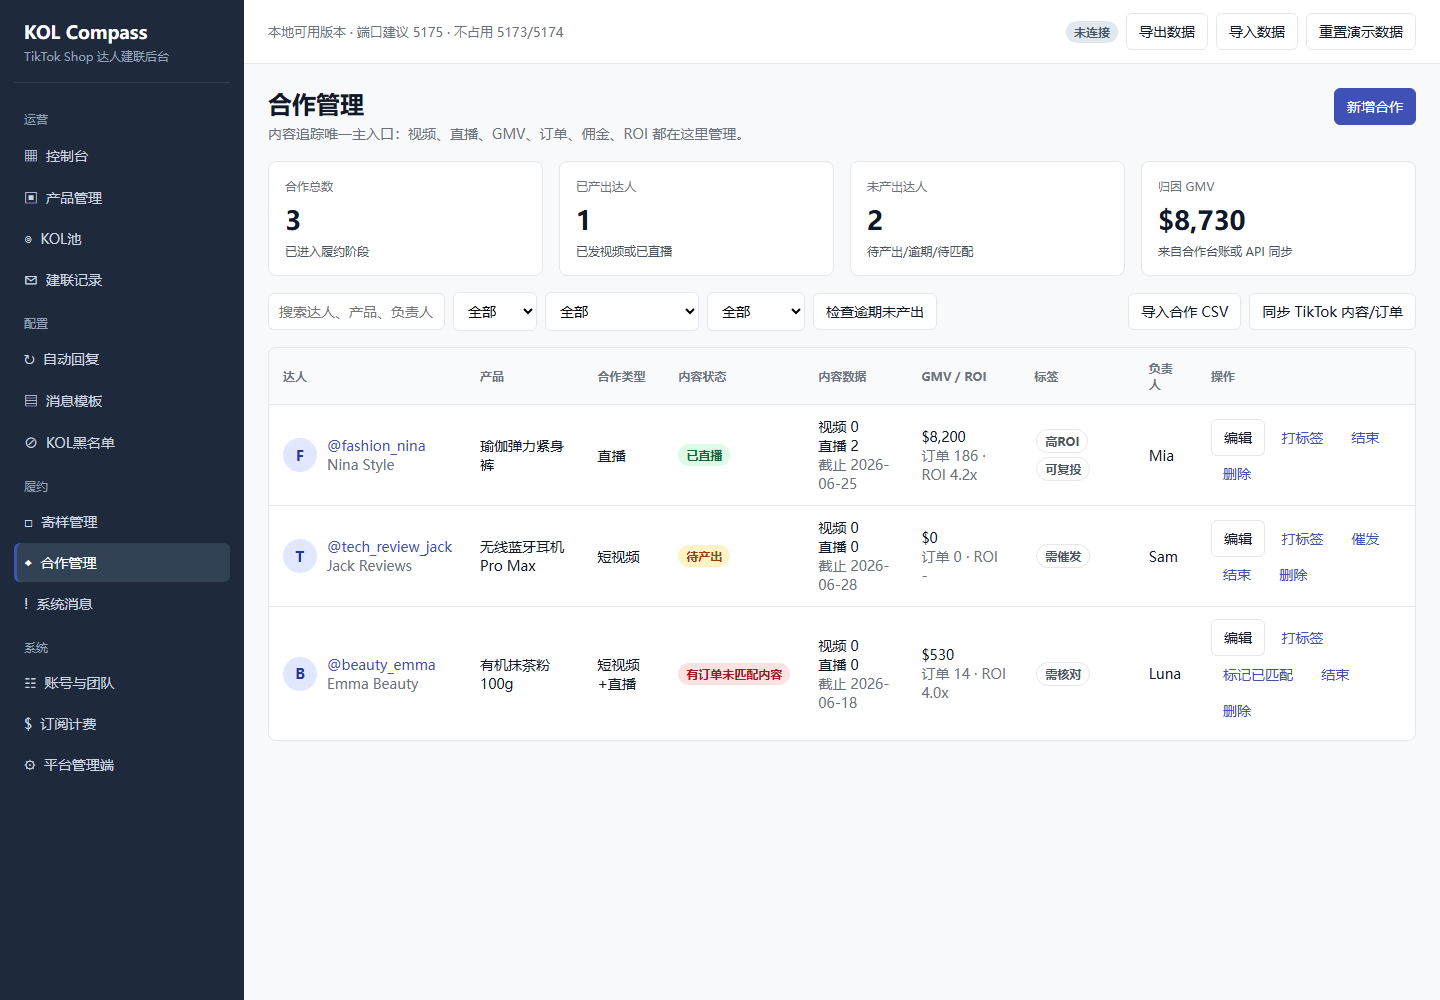
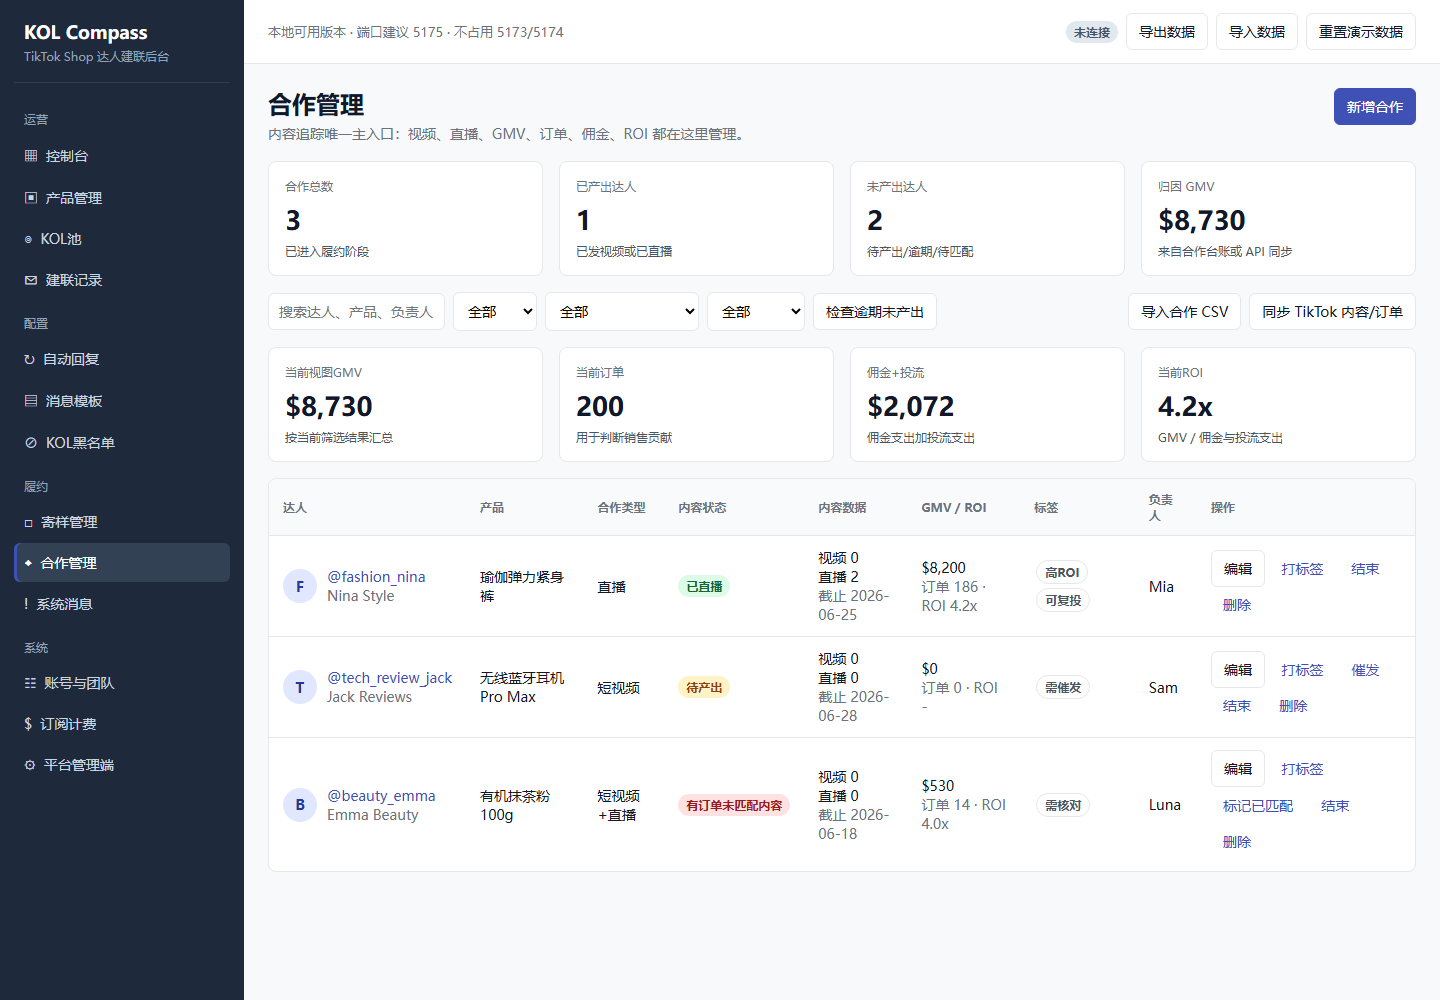
Add cooperation sales review summary

diff --git a/app.js b/app.js
@@ -901,6 +901,10 @@ function renderCooperations() {
   const produced = state.cooperations.filter((x) => x.videos > 0 || x.lives > 0).length;
   const unproduced = state.cooperations.length - produced;
   const gmv = state.cooperations.reduce((sum, x) => sum + Number(x.gmv || 0), 0);
+  const visibleGmv = rows.reduce((sum, x) => sum + Number(x.gmv || 0), 0);
+  const visibleOrders = rows.reduce((sum, x) => sum + Number(x.orders || 0), 0);
+  const visibleSpend = rows.reduce((sum, x) => sum + Number(x.commission || 0) + Number(x.adSpend || 0), 0);
+  const visibleRoi = visibleSpend > 0 ? visibleGmv / visibleSpend : 0;
   const allTags = Array.from(new Set([...fixedTags, ...state.cooperations.flatMap((x) => x.tags)]));
   return `
     ${pageHead("合作管理", "内容追踪唯一主入口：视频、直播、GMV、订单、佣金、ROI 都在这里管理。", `<button class="btn primary" onclick="openCoopModal()">新增合作</button>`)}
@@ -928,6 +932,12 @@ function renderCooperations() {
         <button class="btn" onclick="importCoopsCsv()">导入合作 CSV</button>
         <button class="btn" onclick="syncCoopData()">同步 TikTok 内容/订单</button>
       </div>
+    </div>
+    <div class="grid grid-4" style="margin-bottom:16px">
+      ${stat("当前视图GMV", money(visibleGmv), "按当前筛选结果汇总")}
+      ${stat("当前订单", visibleOrders, "用于判断销售贡献")}
+      ${stat("佣金+投流", money(visibleSpend), "佣金支出加投流支出")}
+      ${stat("当前ROI", visibleRoi ? `${visibleRoi.toFixed(1)}x` : "-", "GMV / 佣金与投流支出")}
     </div>
     ${table(["达人", "产品", "合作类型", "内容状态", "内容数据", "GMV / ROI", "标签", "负责人", "操作"], rows.map((c) => {
       const r = roi(c);

diff --git a/smoke-test.js b/smoke-test.js
@@ -62,6 +62,7 @@ async function main() {
   assert("dashboard filters and drilldowns supported", ["dashboardRange", "dashboardOwner", "dashboardGo", "内容状态分布", "负责人概览"].every((name) => app.includes(name)));
   assert("dashboard separates activity and due ranges", ["inActivityRange", "inDueRange"].every((name) => app.includes(`function ${name}`)) && app.includes("活动按更新时间统计，合作按产出截止日统计"));
   assert("cooperation search and output filters supported", ["coopSearch", "coopOutput"].every((name) => app.includes(name)) && app.includes("搜索达人、产品、负责人、备注"));
+  assert("cooperation sales review summary supported", ["visibleGmv", "visibleOrders", "visibleSpend", "visibleRoi"].every((name) => app.includes(name)) && ["当前视图GMV", "当前订单", "佣金+投流", "当前ROI"].every((text) => app.includes(text)));
   assert("product filters supported", ["productSearch", "productCategory", "productStatus", "productMode"].every((name) => app.includes(name)) && app.includes("真实商品、佣金率和合作模式应来自 TikTok Shop Partner API"));
   assert("product detail is read-only with business drilldowns", ["openProductModal", "productUsage", "goProductCoops", "goProductOutreach"].every((name) => app.includes(`function ${name}`)) && app.includes("当前只读展示，不支持本地手动新增或改写真实商品源"));
   assert("product detail keeps performance metrics in cooperations", app.includes("视频、直播、GMV、订单、佣金支出和 ROI 仍只在合作管理查看"));

diff --git a/docs/PROJECT_MEMORY.md b/docs/PROJECT_MEMORY.md
@@ -1,6 +1,6 @@
 # KOL Compass 项目记忆
 
-更新时间：2026-06-22 10:31 CST
+更新时间：2026-06-22 10:40 CST
 
 ## 当前工作目录
 
@@ -52,7 +52,7 @@ node smoke-test.js
 - 系统消息截图 `smoke-messages.png` 已生成并目视检查通过。
 - 产品管理截图 `smoke-products.png` 已重新生成并目视检查通过，详情、相关合作、相关建联入口可见。
 - 平台管理端截图 `smoke-admin.png` 已重新生成并目视检查通过。
-- 合作管理截图 `smoke-cooperations.png` 已重新生成并目视检查通过。
+- 合作管理截图 `smoke-cooperations.png` 已重新生成并目视检查通过，当前视图 GMV、订单、佣金+投流和 ROI 复盘汇总可见。
 - 建联记录截图 `smoke-outreach.png` 已重新生成并目视检查通过，建联总数、待达人回复、待我方回复、已转合作状态总览和当前显示条数可见。
 - KOL 池截图 `smoke-kol-pool.png` 已重新生成并目视检查通过。
 - KOL 详情截图 `smoke-kol-detail.png` 已重新生成并目视检查通过。
@@ -73,7 +73,7 @@ node smoke-test.js
 - 订阅计费页已支持本地切换套餐，并即时影响建联配额显示和建联拦截；账单与支付记录为本地台账，切换套餐只写本地记录、系统消息和操作日志，不会发起真实扣款或开票。
 - 建联记录已支持按达人/产品/消息关键词、沟通状态、渠道筛选。
 - 建联记录已支持建联总数、待达人回复、待我方回复、已转合作状态总览；状态卡片可直接筛选列表，并展示当前显示条数。
-- 合作管理已支持按达人/产品/负责人/备注搜索，并支持全部/已产出/未产出筛选。
+- 合作管理已支持按达人/产品/负责人/备注搜索，并支持全部/已产出/未产出筛选；筛选后的当前视图会汇总 GMV、订单、佣金+投流和 ROI，便于复投或终止判断。
 - 平台管理端已支持保存 TikTok API 本地配置：client_key、OAuth Redirect URL、scope、最近检查时间；client_secret 明确不保存到前端。
 - 平台管理端功能开关已从静态展示变成真实状态：TikTok 私信、Email、WhatsApp、消息翻译、Stripe 支付可切换。
 - 平台管理端已支持本地商家统计和入驻审批台账：申请商家、待审批、已通过、接入阻塞统计可见；入驻申请可通过、驳回、恢复待审；动作写入系统消息和操作日志，不调用真实商户系统、支付系统或 TikTok API。

diff --git a/README.md b/README.md
@@ -76,7 +76,7 @@ KOL CSV 支持表头：
 - KOL黑名单支持统计、达人/类目/地区/原因搜索、拉黑原因和拉黑时间记录，移出黑名单会写入系统消息和操作日志。
 - 建联记录支持建联总数、待达人回复、待我方回复、已转合作状态总览，并可按状态卡片快速筛选；同时支持按达人/产品/消息关键词、沟通状态和渠道筛选。
 - 自动回复支持新增、编辑、删除、启停、关键词/条件组合配置，并提供本地触发测试；测试不会发送真实外部消息。
-- 合作管理支持按达人/产品/负责人/备注搜索，并支持全部/已产出/未产出筛选。
+- 合作管理支持按达人/产品/负责人/备注搜索，并支持全部/已产出/未产出筛选；当前筛选结果会汇总 GMV、订单、佣金+投流和 ROI，用于复投或终止判断。
 - 系统消息包含同步日志和通知中心，支持类型筛选、已读筛选、全部已读、单条已读、删除，并本地保留最近 90 天。
 - 消息模板支持新增、编辑、删除，并提示可用变量。
 - 账号与团队支持新增/编辑/启禁用成员、角色权限摘要、可访问店铺配置和操作日志。

diff --git a/docs/CLAUDE_CONTINUE.md b/docs/CLAUDE_CONTINUE.md
@@ -31,7 +31,7 @@
 - `stop-5175.bat`
 - `smoke-test.js`
 
-最近一次心跳检查：2026-06-22 10:31 CST，当前分支已连接 GitHub 远端，已增强 KOL 池运营入口：当前筛选、可建联达人、暂不可建联、已选择状态总览可见，并支持选择当前可建联与清空选择；`node --check app.js` 与 `node smoke-test.js` 已通过，截图 `smoke-kol-pool.png` 已重新生成并目视复核，下一步小步提交推送。
+最近一次连续推进检查：2026-06-22 11:33 CST，当前分支已连接 GitHub 远端，已增强合作管理销售复盘：当前筛选结果汇总 GMV、订单、佣金+投流和 ROI；`node --check app.js` 与 `node smoke-test.js` 已通过，截图 `smoke-cooperations.png` 已重新生成并目视复核，下一步小步提交推送。
 
 启动：
 

diff --git a/docs/ACCEPTANCE_REPORT.md b/docs/ACCEPTANCE_REPORT.md
@@ -59,6 +59,10 @@
 - 订单
 - 佣金
 - ROI
+- 当前视图 GMV 汇总
+- 当前视图订单汇总
+- 当前视图佣金+投流汇总
+- 当前视图 ROI 汇总
 - 固定标签
 - 自定义标签
 - 标签筛选
@@ -280,6 +284,7 @@ node smoke-test.js
 - 控制台支持时间范围筛选、负责人筛选、指标下钻、内容状态分布和负责人概览
 - 合作管理包含已产出/未产出
 - 合作管理包含内容追踪状态筛选
+- 合作管理支持当前筛选结果的 GMV、订单、佣金+投流、ROI 复盘汇总
 - 合作管理包含催发、匹配、结束、删除操作
 - KOL池包含编辑和拉黑操作
 - KOL黑名单支持搜索、原因/时间审计和移出黑名单
